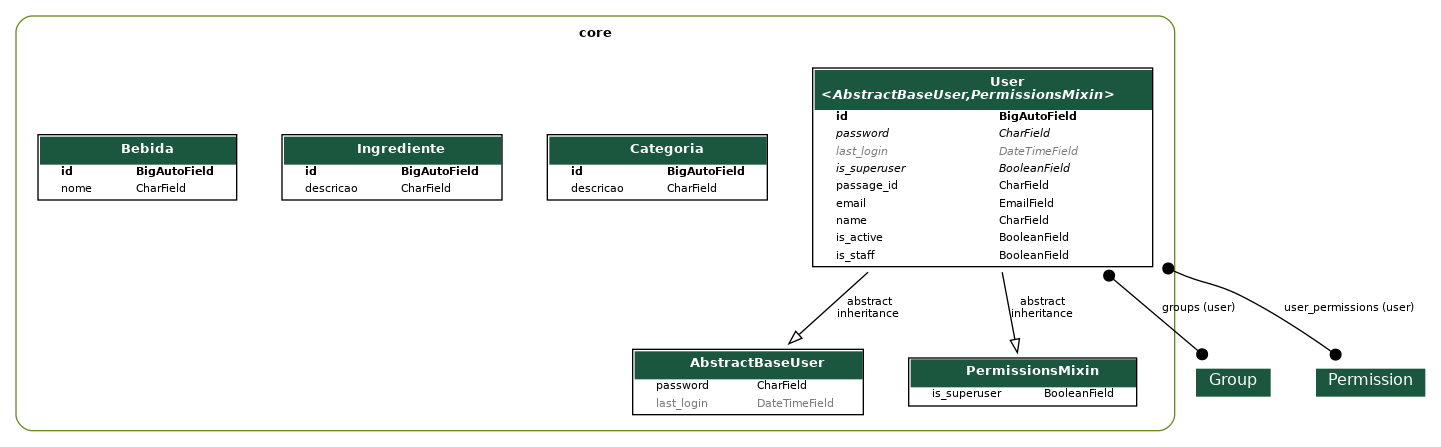
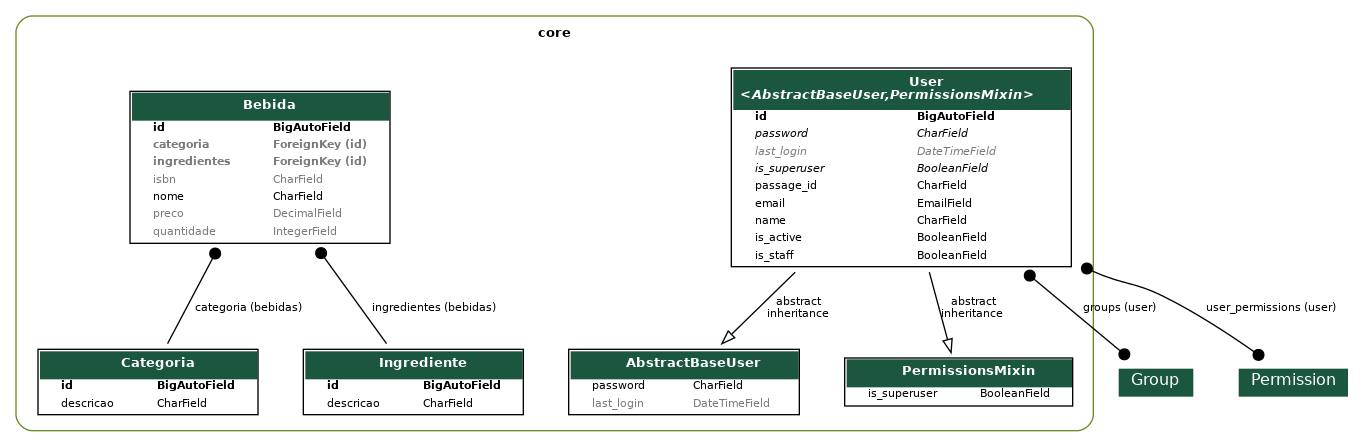
Correção do erro da model de bebida

diff --git a/core/migrations/0005_bebida_categoria_bebida_ingredientes_bebida_isbn_and_more.py b/core/migrations/0005_bebida_categoria_bebida_ingredientes_bebida_isbn_and_more.py
@@ -1,0 +1,52 @@
+# Generated by Django 5.1 on 2024-08-21 18:49
+
+import django.db.models.deletion
+from django.db import migrations, models
+
+
+class Migration(migrations.Migration):
+
+    dependencies = [
+        ("core", "0004_bebida"),
+    ]
+
+    operations = [
+        migrations.AddField(
+            model_name="bebida",
+            name="categoria",
+            field=models.ForeignKey(
+                blank=True,
+                default=1,
+                on_delete=django.db.models.deletion.PROTECT,
+                related_name="bebidas",
+                to="core.categoria",
+            ),
+            preserve_default=False,
+        ),
+        migrations.AddField(
+            model_name="bebida",
+            name="ingredientes",
+            field=models.ForeignKey(
+                blank=True,
+                null=True,
+                on_delete=django.db.models.deletion.PROTECT,
+                related_name="bebidas",
+                to="core.ingrediente",
+            ),
+        ),
+        migrations.AddField(
+            model_name="bebida",
+            name="isbn",
+            field=models.CharField(blank=True, max_length=32, null=True),
+        ),
+        migrations.AddField(
+            model_name="bebida",
+            name="preco",
+            field=models.DecimalField(blank=True, decimal_places=2, default=0, max_digits=7, null=True),
+        ),
+        migrations.AddField(
+            model_name="bebida",
+            name="quantidade",
+            field=models.IntegerField(blank=True, default=0, null=True),
+        ),
+    ]

diff --git a/core/models/bebidas.py b/core/models/bebidas.py
@@ -3,11 +3,10 @@ from .categoria import Categoria
 from .ingredientes import Ingrediente
 
 class Bebida(models.Model):
-    categoria = models.ForeignKey(Categoria, on_delete=models.PROTECT, related_name="bebidas", null=False, blank=True)
-    ingredientes = models.ForeignKey(Ingrediente, on_delete=models.PROTECT, related_name="bebidas", null=True, blank=True)
-    isbn = models.CharField(max_length=32, null=True, blank=True)
     nome = models.CharField(max_length=100)
     preco = models.DecimalField(max_digits=7, decimal_places=2, default=0, null=True, blank=True)
+    categoria = models.ForeignKey(Categoria, on_delete=models.PROTECT, related_name="bebidas", null=False, blank=True)
+    ingredientes = models.ForeignKey(Ingrediente, on_delete=models.PROTECT, related_name="bebidas", null=True, blank=True)
     quantidade = models.IntegerField(default=0, null=True, blank=True)
 
     def __str__(self):
